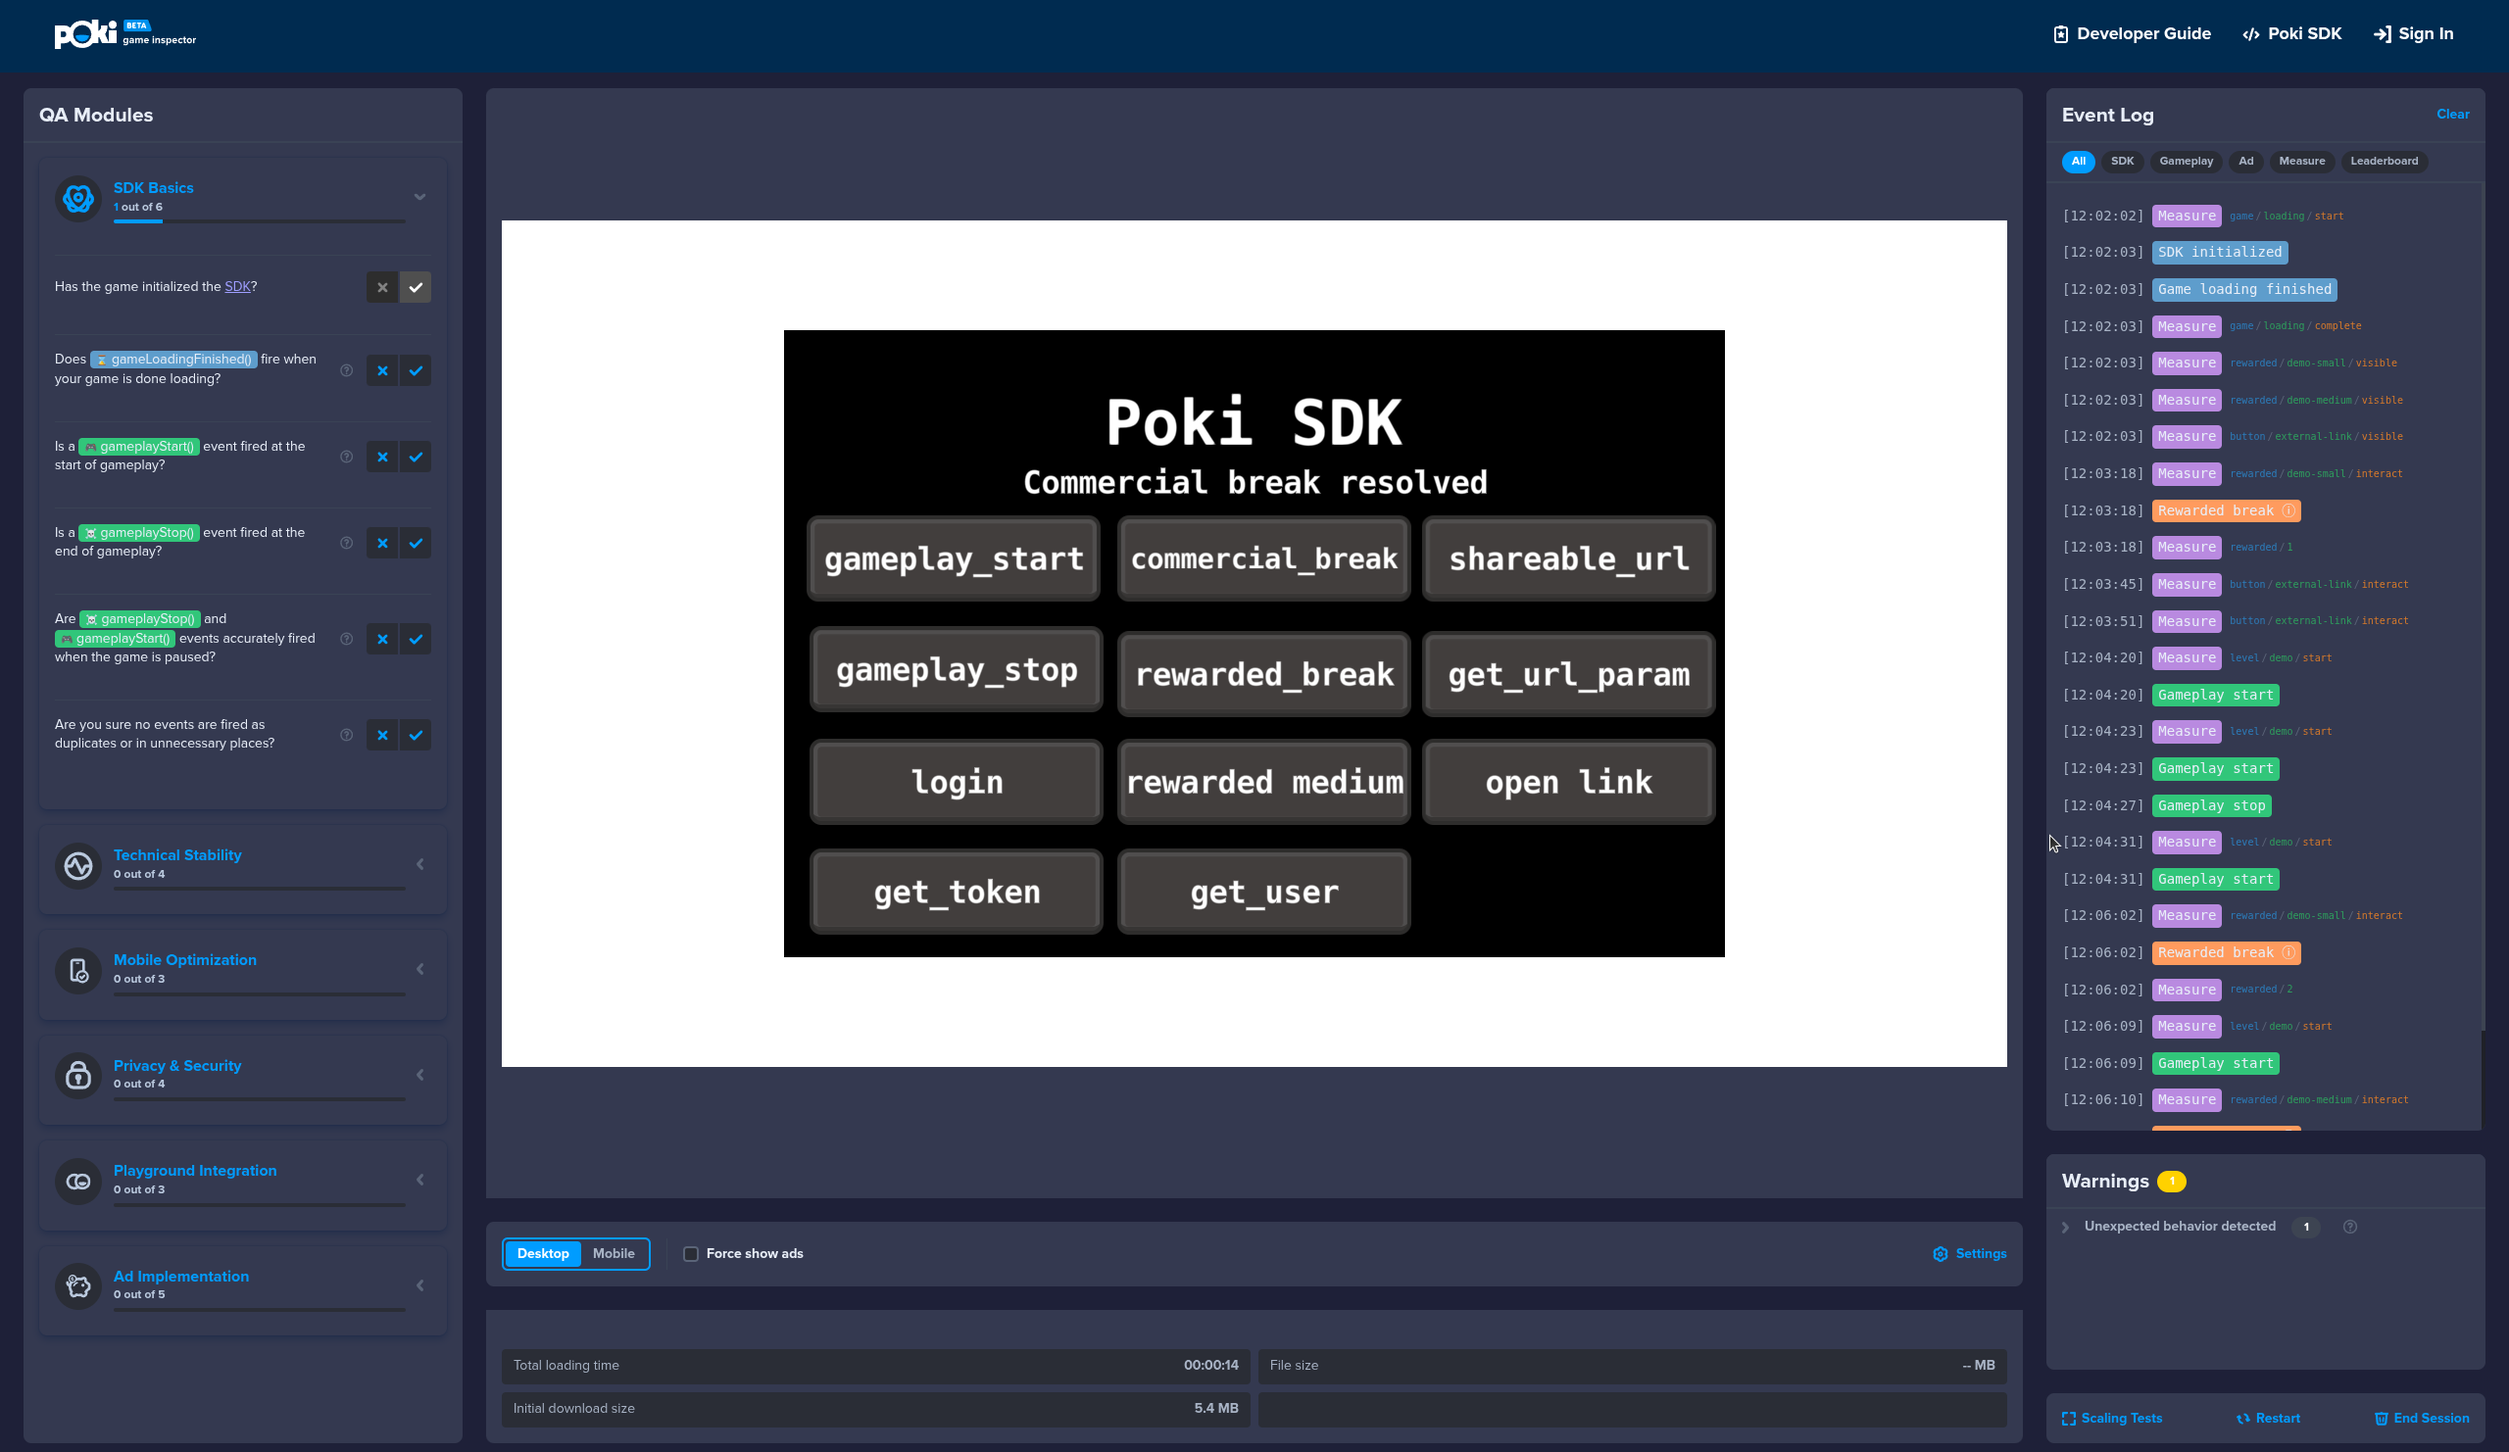
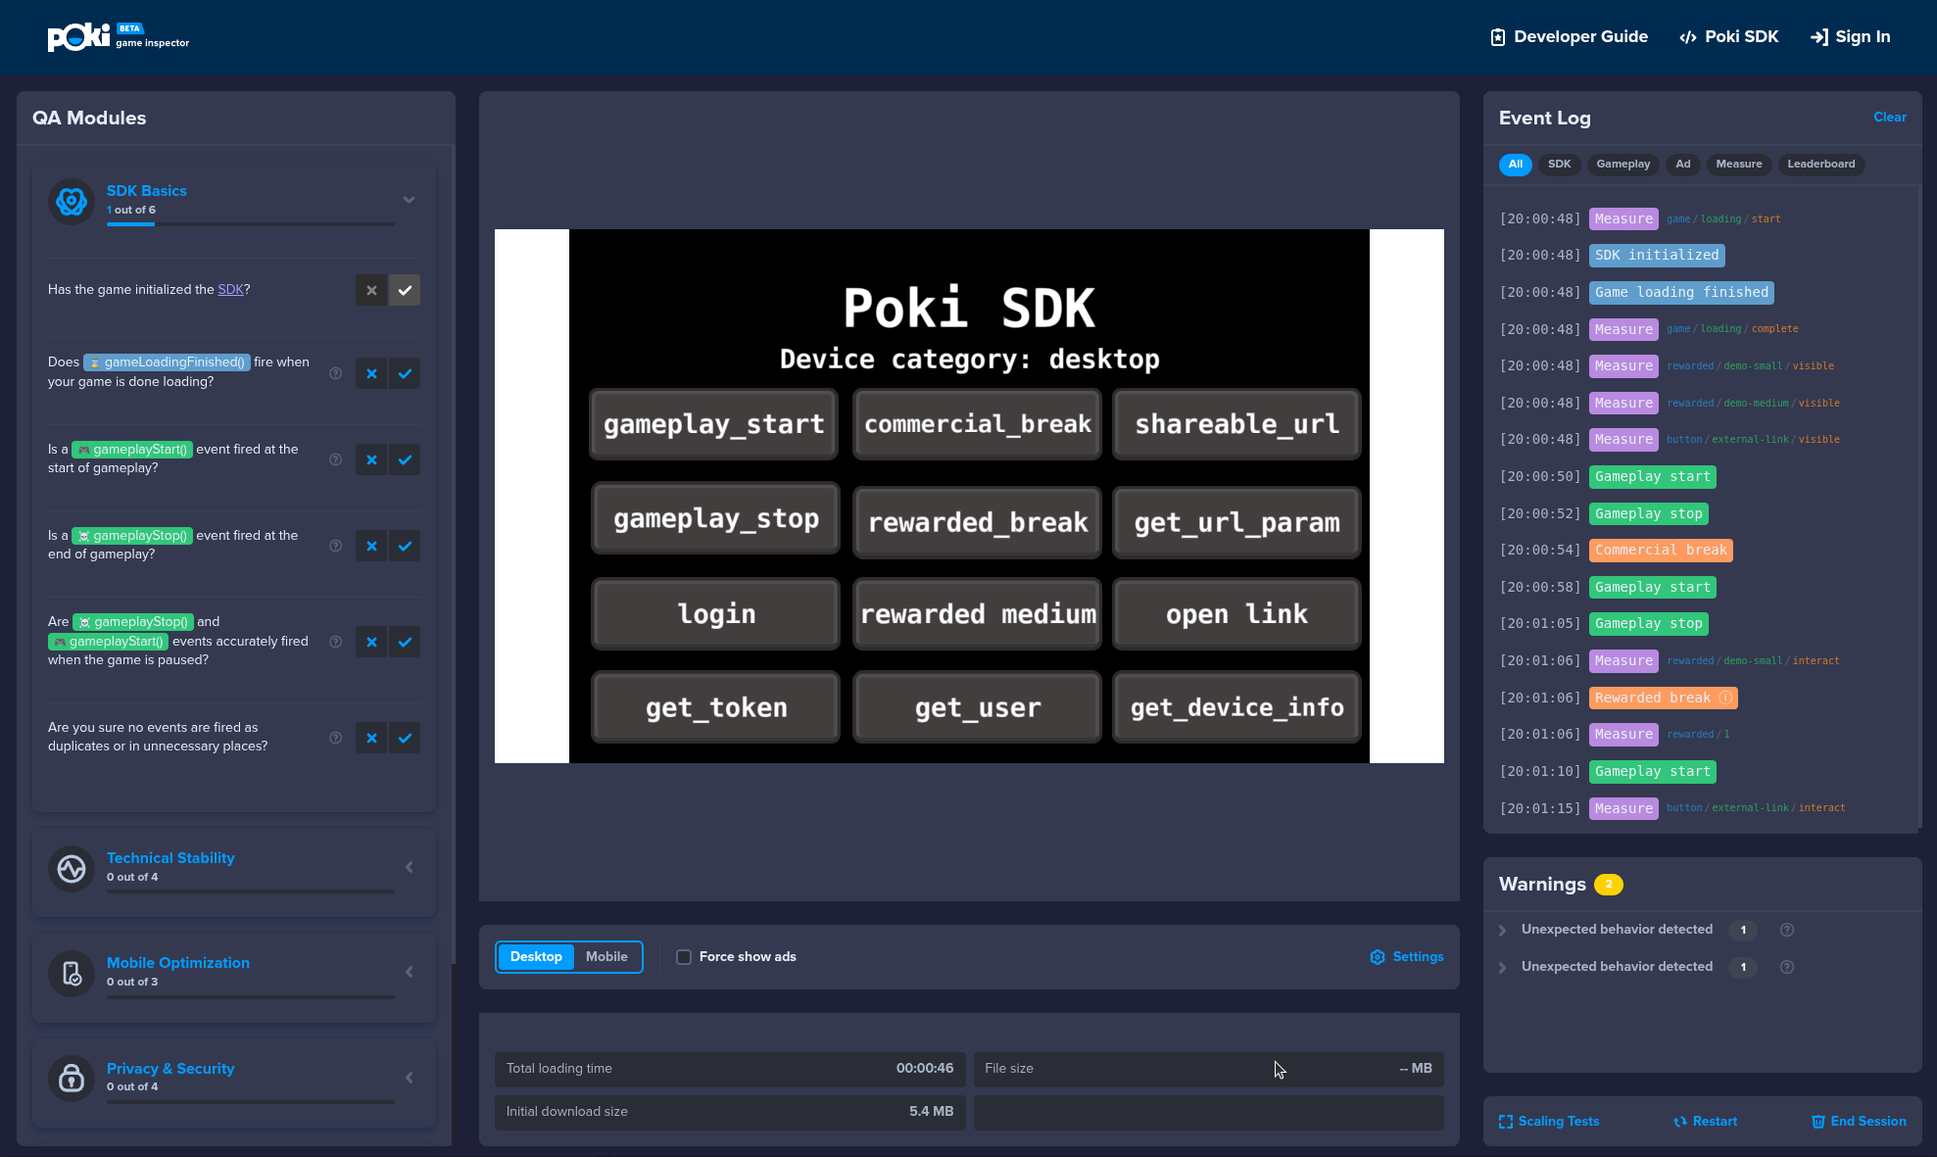
Add get_device_info button and callback for the Defold example project.

diff --git a/docs/index.md b/docs/index.md
@@ -377,18 +377,13 @@ The extension exposes `poki_sdk.open_external_link(url)` for user-initiated exte
 poki_sdk.open_external_link("https://developers.poki.com/")
 ```
 
-
 ## Example
 
 [Refer to the example project](https://github.com/defold/extension-poki-sdk/blob/main/example/poki-sdk.gui_script) to see a complete example of how the integration works.
 
-![Poki SDK example controls and status display](poki-example.png)
-
-
 ## Source code
 
 The source code is available on [GitHub](https://github.com/defold/extension-poki-sdk)
-
 
 ## API
 
